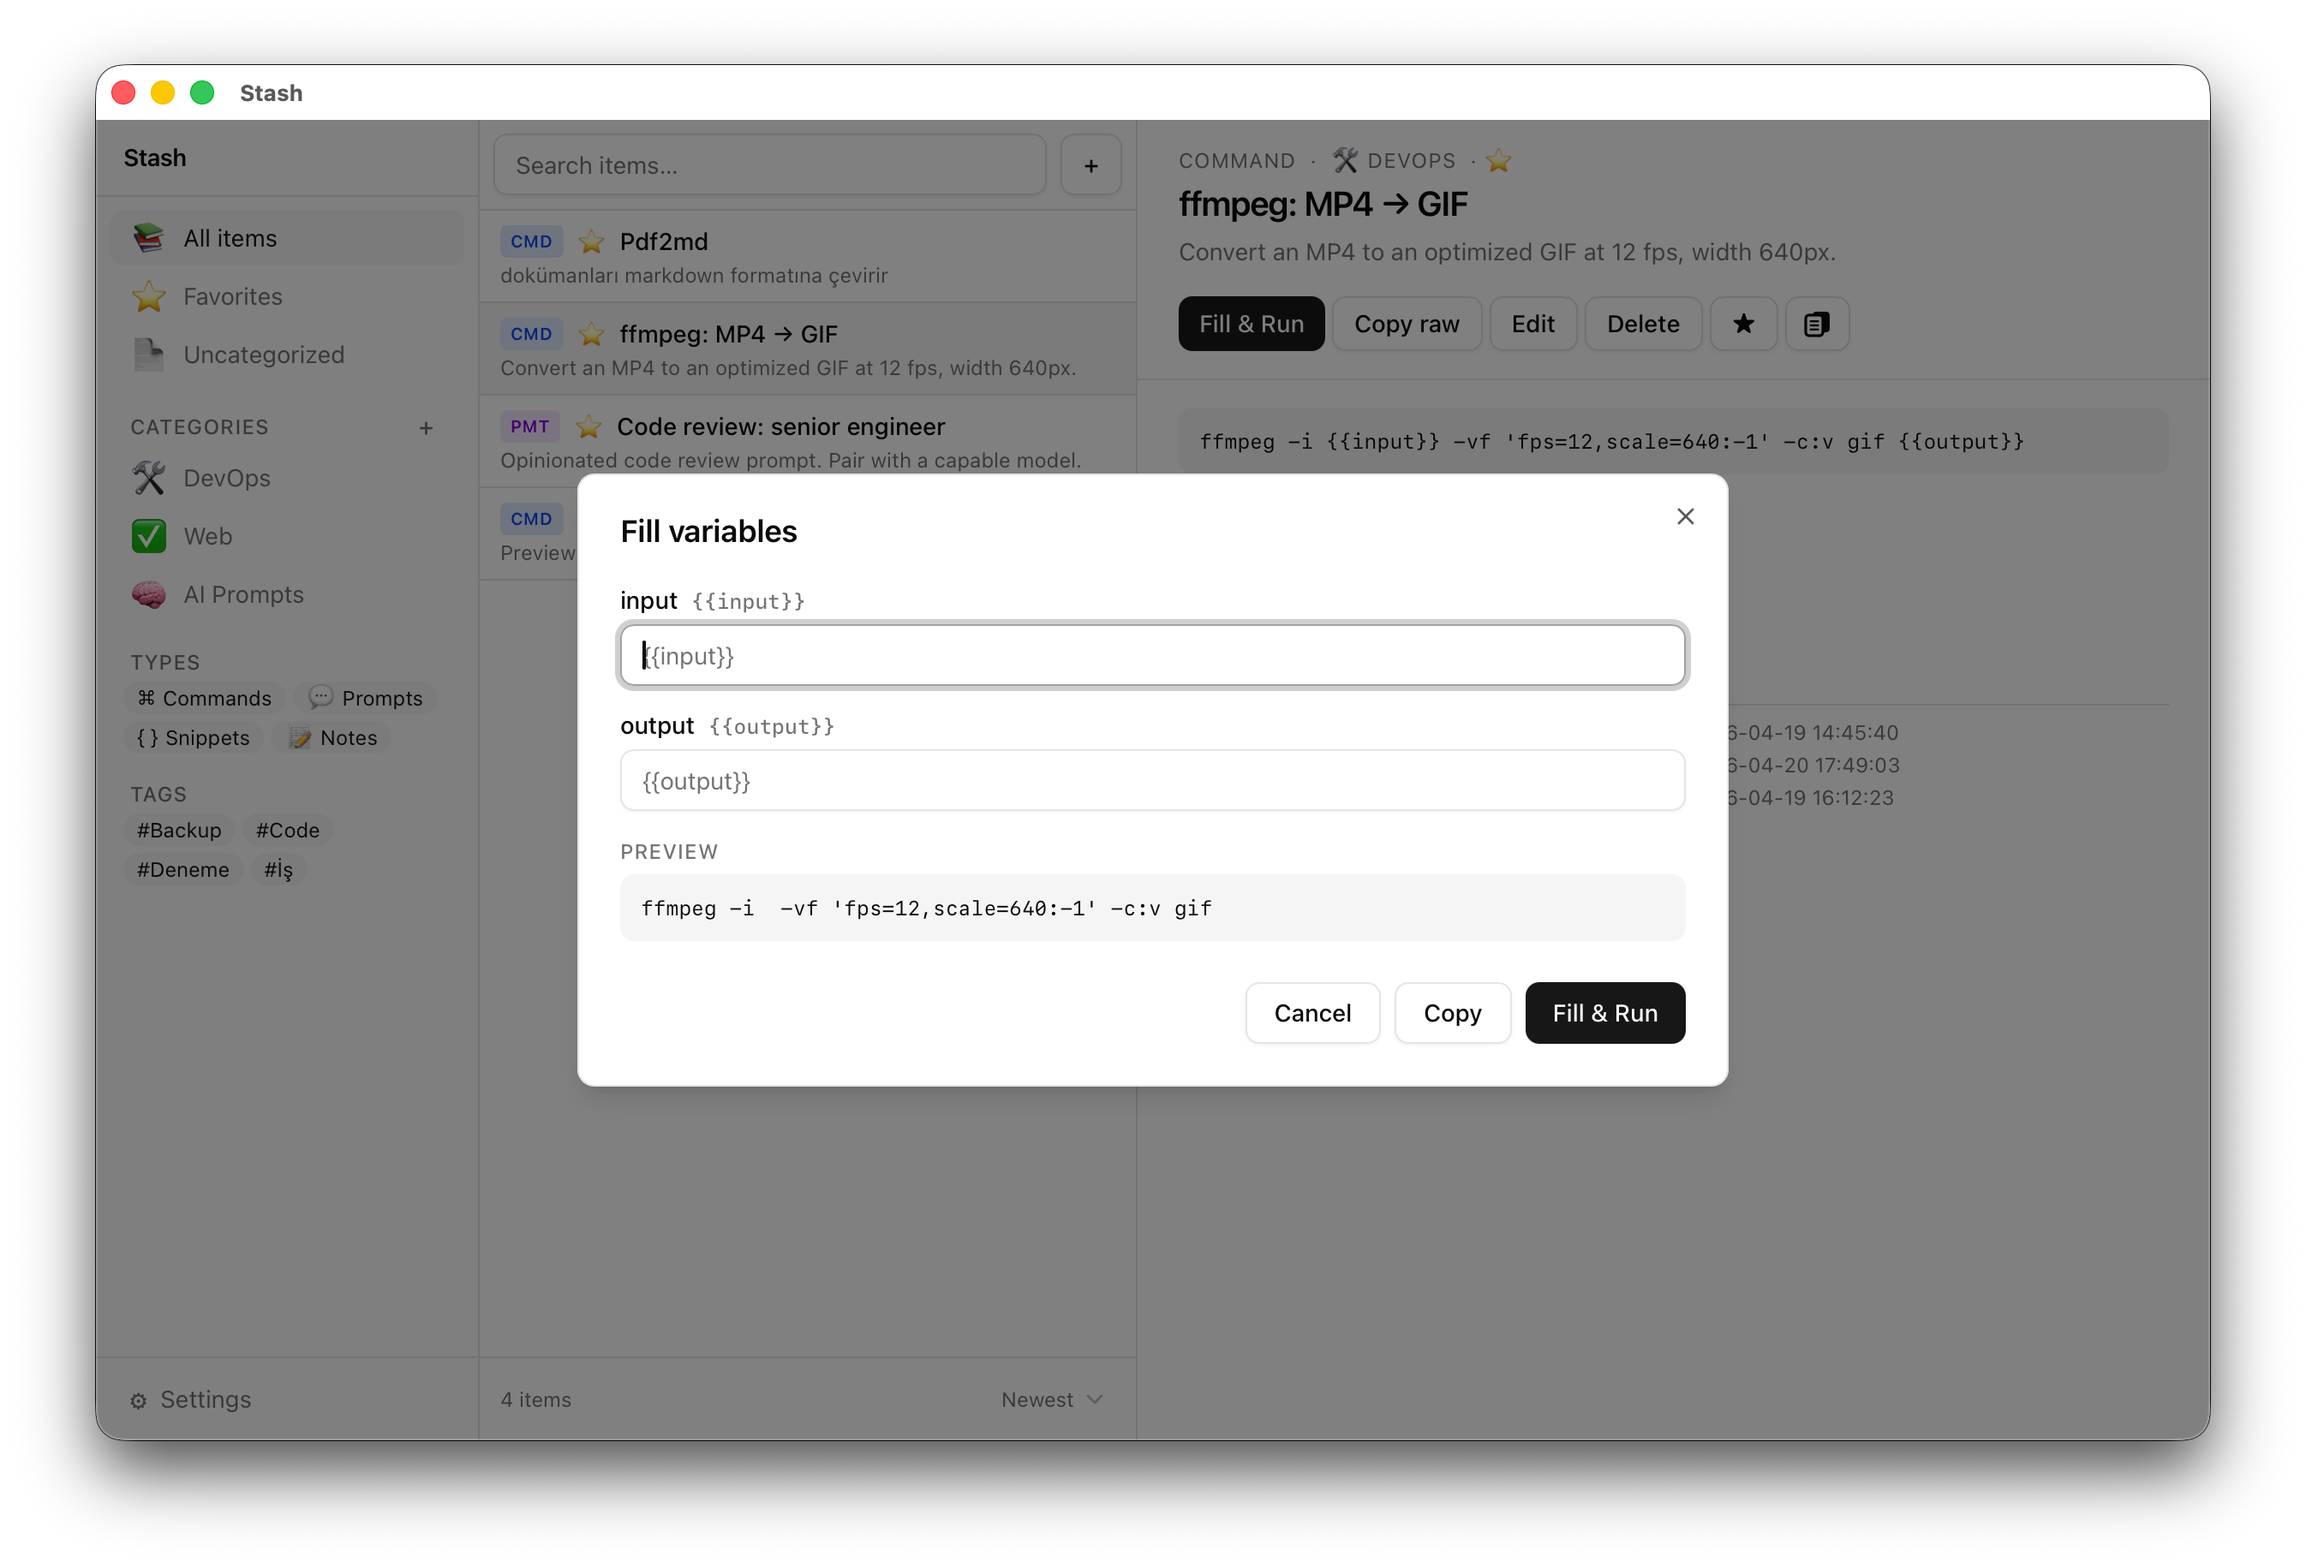
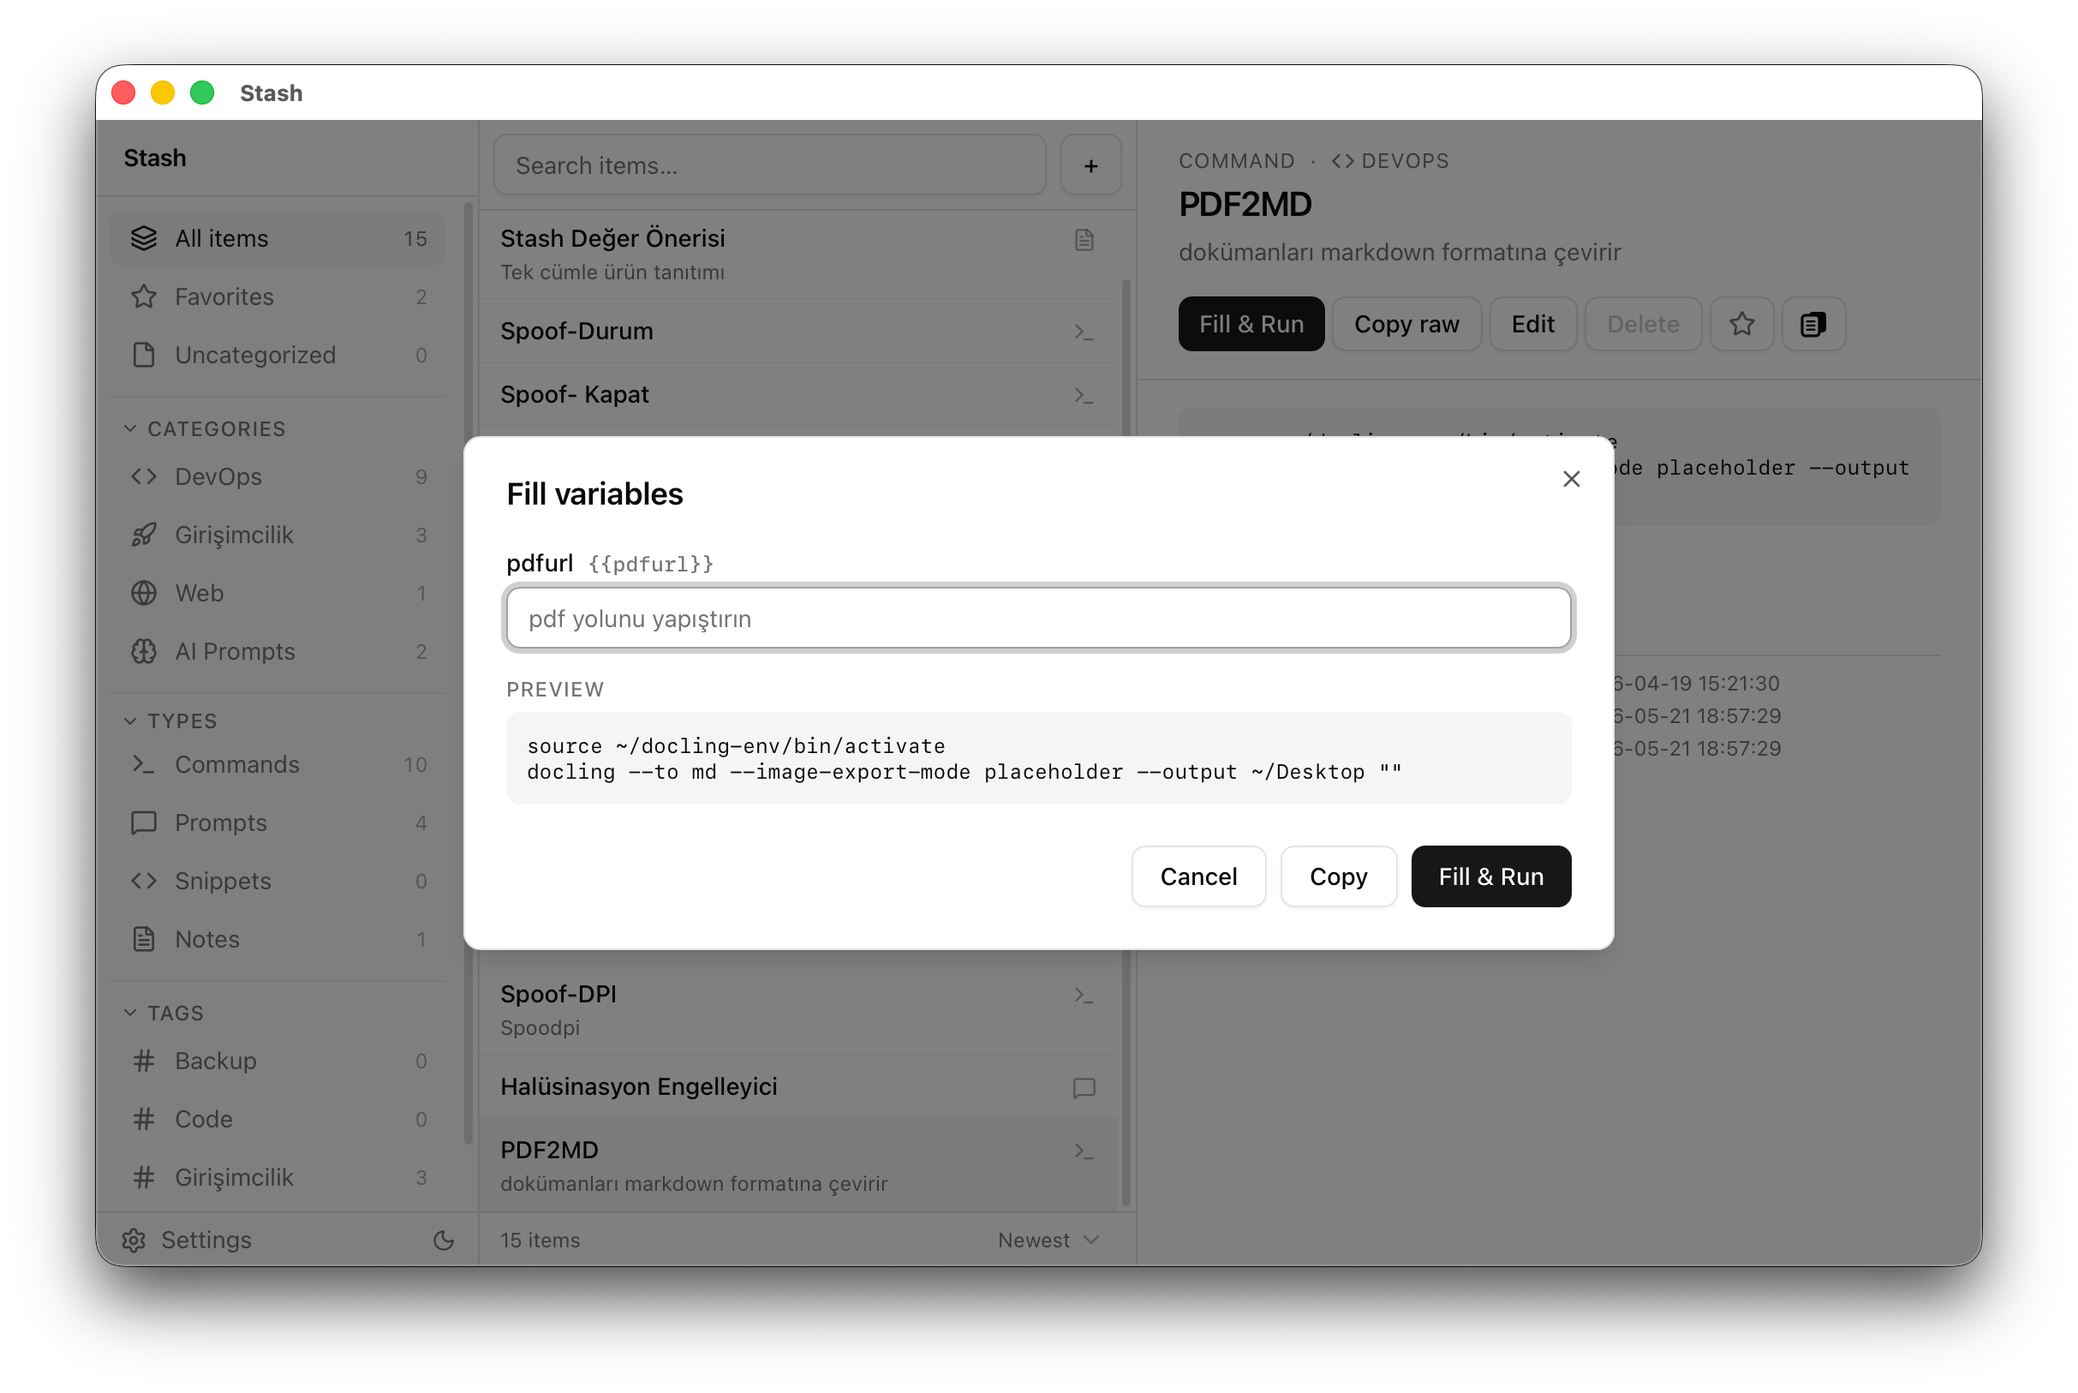
docs: refresh screenshots and add quick-launch shot
Replace the April screenshots with the current redesigned UI: monochrome
sidebar with count badges, new editor, fill-variables dialog, and the
new global quick-launch window.

diff --git a/README.md b/README.md
@@ -17,7 +17,11 @@ Stash stores, organizes, and runs the terminal commands, AI prompts, and code sn
 
 <p align="center">
   <img src="docs/screenshots/editor.png" alt="New item editor" width="49%" />
-  <img src="docs/screenshots/execute.png" alt="Run command dialog" width="49%" />
+  <img src="docs/screenshots/quicklaunch.png" alt="Global quick-launch" width="49%" />
+</p>
+
+<p align="center">
+  <img src="docs/screenshots/execute.png" alt="Fill variables and run" width="60%" />
 </p>
 
 ## Features
